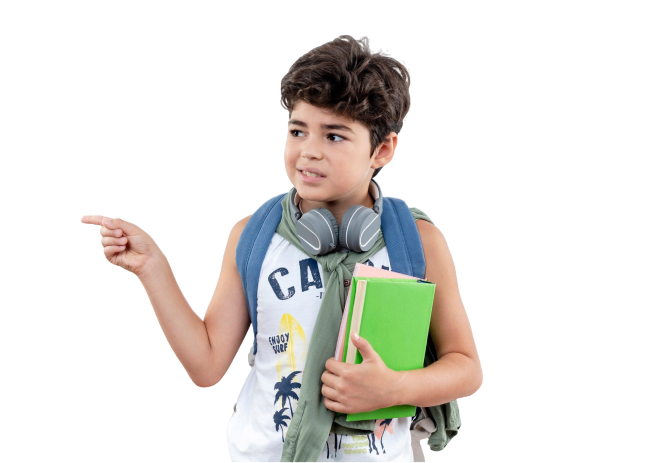
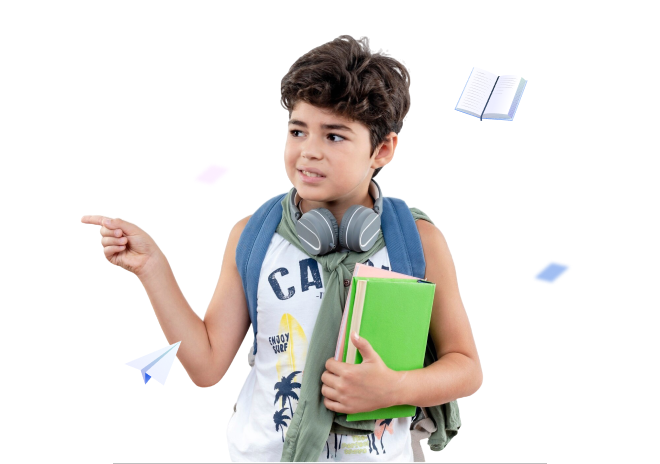
Ramya suggested updates

diff --git a/src/component/Navbar.tsx b/src/component/Navbar.tsx
@@ -1,15 +1,17 @@
 'use client';
 import { useEffect, useState } from 'react';
 import Link from 'next/link';
+import { usePathname } from 'next/navigation'
 import { useDispatch, useSelector } from 'react-redux';
 import { useGetContactUsQuery } from '../../slices/contactForm';
 import { setContact } from '../../slices/contactForm';
-import CustomButton from './Button';
 
 export default function Navbar() {
   const [isOpen, setIsOpen] = useState(false);
 
-  
+  const currentPath = usePathname(); // Get the current route
+
+
   // Fetch contact data if not already available in the store
   const { data, isLoading, isError } = useGetContactUsQuery();
 
@@ -36,18 +38,78 @@ export default function Navbar() {
 
       {/* Desktop Menu */}
       <div className="hidden md:flex space-x-8 items-center text-[#5F5B53]">
-        <Link href="/" className="text-gray-600 hover:text-gray-800 font-medium">
-          Home
-        </Link>
-        <Link href="/about" className="text-gray-600 hover:text-gray-800 font-medium">
-          About
-        </Link>
-        <Link href="/testimonial" className="text-gray-600 hover:text-gray-800 font-medium">
-          Testimonial
-        </Link>
-        <Link href="/contact" className="text-gray-600 hover:text-gray-800 font-medium">
-          Contact
-        </Link>
+<Link
+  href="/"
+  className={`font-medium relative ${
+    currentPath === '/' ? 'text-[#2A497C] font-bold' : 'text-gray-600 hover:text-gray-800'
+  }`}
+>
+  <span className="relative">
+    <span
+      className={`${
+        currentPath === '/' ? 'underline decoration-2 decoration-[#2A497C]' : ''
+      }`}
+    >
+      H
+    </span>
+    ome
+  </span>
+</Link>
+
+<Link
+  href="/about"
+  className={`font-medium relative ${
+    currentPath === '/about' ? 'text-[#2A497C] font-bold' : 'text-gray-600 hover:text-gray-800'
+  }`}
+>
+  <span className="relative">
+    <span
+      className={`${
+        currentPath === '/about' ? 'underline decoration-2 decoration-[#2A497C]' : ''
+      }`}
+    >
+      A
+    </span>
+    bout
+  </span>
+</Link>
+
+<Link
+  href="/testimonial"
+  className={`font-medium relative ${
+    currentPath === '/testimonial' ? 'text-[#2A497C] font-bold' : 'text-gray-600 hover:text-gray-800'
+  }`}
+>
+  <span className="relative">
+    <span
+      className={`${
+        currentPath === '/testimonial' ? 'underline decoration-2 decoration-[#2A497C]' : ''
+      }`}
+    >
+      T
+    </span>
+    estimonial
+  </span>
+</Link>
+
+<Link
+  href="/contact"
+  className={`font-medium relative ${
+    currentPath === '/contact' ? 'text-[#2A497C] font-bold' : 'text-gray-600 hover:text-gray-800'
+  }`}
+>
+  <span className="relative">
+    <span
+      className={`${
+        currentPath === '/contact' ? 'underline decoration-2 decoration-[#2A497C]' : ''
+      }`}
+    >
+      C
+    </span>
+    ontact
+  </span>
+</Link>
+
         <div>
           <button className='px-6 py-2 font-medium rounded-3xl transition duration-300 ease-in-out bg-[#2A497C] text-[#fff]'>Book Demo</button>
         </div>
@@ -83,25 +145,25 @@ export default function Navbar() {
         <div className="space-y-2 py-2">
           <Link
             href="/"
-            className="block text-gray-600 hover:text-gray-800 px-3 py-2 font-medium"
+            className={`${currentPath === '/' ? 'text-[#2A497C] font-bold' : 'text-gray-600 hover:text-gray-800'} block px-3 py-2 font-medium`}
           >
             Home
           </Link>
           <Link
             href="/about"
-            className="block text-gray-600 hover:text-gray-800 px-3 py-2 font-medium"
+            className={`${currentPath === '/about' ? 'text-[#2A497C] font-bold' : 'text-gray-600 hover:text-gray-800'} block px-3 py-2 font-medium`}
           >
             About
           </Link>
           <Link
             href="/testimonial"
-            className="block text-gray-600 hover:text-gray-800 px-3 py-2 font-medium"
+            className={`${currentPath === '/testimonial' ? 'text-[#2A497C] font-bold' : 'text-gray-600 hover:text-gray-800'} block px-3 py-2 font-medium`}
           >
             Testimonial
           </Link>
           <Link
             href="/contact"
-            className="block text-gray-600 hover:text-gray-800 px-3 py-2 font-medium"
+            className={`${currentPath === '/contact' ? 'text-[#2A497C] font-bold' : 'text-gray-600 hover:text-gray-800'} block px-3 py-2 font-medium`}
           >
             Contact
           </Link>
@@ -110,7 +172,5 @@ export default function Navbar() {
     )}
   </div>
 </nav>
-
   );
 }
-

diff --git a/src/component/MainSection.tsx b/src/component/MainSection.tsx
@@ -2,27 +2,24 @@ import React from 'react'
 import CustomButton from './Button'
 
 const coolKid="/images/cool-kid.png"
-const openBookImg = '/images/Open-Book.png';
-const paperAeroplane = "/images/paper-Aeroplane.png";
 const MainSection = () => {
   return (
     <div className='container max-w-7xl mx-auto px-4 py-8 md:py-12 lg:py-10'>
       {/* Grid Section */}
       <div className="grid grid-cols-1 md:grid-cols-2 gap-8 items-center">
         {/* Left Container */}
-        <div className='max-w-lg mx-auto'>
-          <h3 className='text-primary text-xl my-2 lg:my-4'>About Global Learner Den</h3>
+        <div className='max-w-lg mx-auto relative'>
+          <h3 className='text-primary text-xl my-3 lg:my-4'>About Global Learner Den</h3>
+          <div className="absolute top-10 lg:top-11 left-0 bg-primary h-0.5" style={{ width: '3%' }}></div>
           <h2 className='font-sen text-3xl font-semibold my-2 lg:my-5 max-w-sm'>Inspiring Growth Through Knowledge and Connection.</h2>
           <p className='text-gray mb-5'>Welcome to Global Learner Den, where we believe every student has the potential to shine. More than just a coaching centre, we are a community dedicated to nurturing confidence, resilience, and a lifelong love for learning.
 Specializing in IB (MYP/ DP) and Cambridge (IGCSE) curricula, we offer a personalized approach that helps students not only excel academically but also develop the critical thinking and global perspective needed to succeed in today’s dynamic world.
 </p>
-          <CustomButton label="Learn More" bgColor='secondary' color='#fff' />  
-        </div>
+          <CustomButton rounded="rounded-full" label="Learn More" bgColor='secondary' color='#fff' />  
+        </div> 
         {/* Right Container */}
         <div className='relative'>
           <img src={coolKid} alt="Student Image" />
-          <img className="absolute top-[20%] right-[20%]" src={openBookImg} alt="Book Image" />
-          <img className="absolute top-[75%] left-[18%]" src={paperAeroplane} alt="Paper Aeroplane" />
         </div>
       </div>
     </div>

diff --git a/src/component/Button.tsx b/src/component/Button.tsx
@@ -4,6 +4,7 @@ interface CustomButtonProps {
   label: string;
   bgColor?: keyof typeof colorPalette | string; 
   color?: keyof typeof colorPalette | string; 
+  rounded?: string; // Optional prop for custom border-radius
   disabled?: boolean;
   onClick?: (e: MouseEvent<HTMLButtonElement>) => void; // Correct type
 }
@@ -18,21 +19,22 @@ const CustomButton: React.FC<CustomButtonProps> = ({
   label,
   bgColor = 'primary',
   color = 'primary',
+  rounded = 'rounded-3xl', // Default rounded value
   disabled = false,
   onClick,
 }) => {
-  const baseStyles = `px-6 py-4 font-medium rounded-3xl transition duration-300 ease-in-out`;
+  const baseStyles = `px-6 py-4 font-medium transition duration-300 ease-in-out`;
   const disabledStyles = `opacity-50 cursor-not-allowed`;
 
   return (
     <button
-      className={`${baseStyles} ${disabled ? disabledStyles : ''}`}
+      className={`${baseStyles} ${rounded} ${disabled ? disabledStyles : ''}`}
       style={{
         backgroundColor: colorPalette[bgColor as keyof typeof colorPalette] || bgColor,
         color: colorPalette[color as keyof typeof colorPalette] || color,
       }}
       disabled={disabled}
-      onClick={onClick} // Corrected handler
+      onClick={onClick}
     >
       {label}
     </button>
@@ -40,4 +42,5 @@ const CustomButton: React.FC<CustomButtonProps> = ({
 };
 
 export default CustomButton;
+
 

diff --git a/src/component/ContactForm.tsx b/src/component/ContactForm.tsx
@@ -100,7 +100,7 @@ const handleSubmit = async (e: React.MouseEvent<HTMLButtonElement>) => {
           {/* Radio Buttons for syllabus */}
           <div>
             <p className="text-[#011C2A] font-semibold  mb-2">Select Syllabus?</p>
-            <div className="flex space-x-6 mb-8">
+            <div className="flex space-x-2 md:space-x-12 lg:space-x-20 mb-8">
               <RadioButton
                 name="syllabus"
                 value="CBSE"
@@ -143,7 +143,9 @@ const handleSubmit = async (e: React.MouseEvent<HTMLButtonElement>) => {
             onChange={handleContactInfoChange}
           />
           </div>
-          <CustomButton label='Send Message' color="#fff" onClick={(e : React.MouseEvent<HTMLButtonElement> ) =>{handleSubmit(e)}}/>
+          <div className='flex justify-end'>
+          <CustomButton label='Send Message' color="#fff" bgColor='#4A3AFF' onClick={(e : React.MouseEvent<HTMLButtonElement> ) =>{handleSubmit(e)}}/>
+          </div>
         </form>
       </div>
     </div>

diff --git a/src/component/ContactLeftContainer.tsx b/src/component/ContactLeftContainer.tsx
@@ -17,7 +17,9 @@ const ContactLeftContainer = () => {
   const { phone, email, address, facebookLink, twitterLink, linkedinLink } = contactUsData || {};
 
   return (
-    <div className="bg-[#09132D] rounded-xl">
+    <div className="bg-[#09132D] bg-cover rounded-2xl" 
+      style={{ backgroundImage: 'url(/images/purple-bg.png)' }}
+      >
       <div className="px-4 pt-4 pb-4 lg:pb-4 lg:pt-8 lg:px-8 text-white">
         <h2 className="text-xl lg:text-2xl">Contact Information</h2>
         <p className="mt-1 lg:text-xl text-[#C9C9C9]">Say something to start a live chat!</p>

diff --git a/src/component/Herobanner.tsx b/src/component/Herobanner.tsx
@@ -32,7 +32,7 @@ const Herobanner = () => {
           {/* Buttons for */}
           <div className='flex flex-col gap-4 lg:flex-row lg:gap-4'>
           {/* <CustomButton label='Are you a Tutor?' bgColor='#4A3AFF' color='#fff'></CustomButton> */}
-          <CustomButton label='Looking for a Tutor?' bgColor='#2A497C' color='#fff'></CustomButton>
+          <CustomButton label='Looking for a Tutor?' bgColor='#2A497C' color='#fff' rounded='rounded-full'></CustomButton>
           </div>
           {/* Recent Engagement Text */}
           <div className='mt-7'>

diff --git a/slices/contactForm.ts b/slices/contactForm.ts
@@ -33,7 +33,7 @@ export const contactReducer = contactSlice.reducer;
 export const contactApi = createApi({
   reducerPath: "contactApi",
   baseQuery: fetchBaseQuery({
-    baseUrl: "http://localhost:3000/api/", // Replace with your actual API URL
+    baseUrl: "http://localhost:3000/api/",
   }),
   endpoints: (builder) => ({
     getContactUs: builder.query<ContactUs, void>({

diff --git a/src/app/api/send-email/route.ts b/src/app/api/send-email/route.ts
@@ -26,7 +26,7 @@ export async function POST(req: Request) {
 
   const mailOptions = {
     from: process.env.EMAIL,
-    to: email, // Replace with your recipient's email
+    to: "poptanikrish1@gmail.com",
     subject: "New Contact Form Submission",
     html: `
       <h1>Contact Form Submission</h1>

diff --git a/src/component/TeachersDetailsSection.tsx b/src/component/TeachersDetailsSection.tsx
@@ -35,7 +35,7 @@ const teachers = [
     numOfRatings: 200,
     teacherName: 'Mrs. Sonia',
     bio: 'Teacher - upto 10th Std',
-    subjects: [' Maths (AI,AA, SL/HL)' , 'English'],
+    subjects: [' Maths (AI, AA, SL/HL)' , 'English'],
   },  
 ];
 
